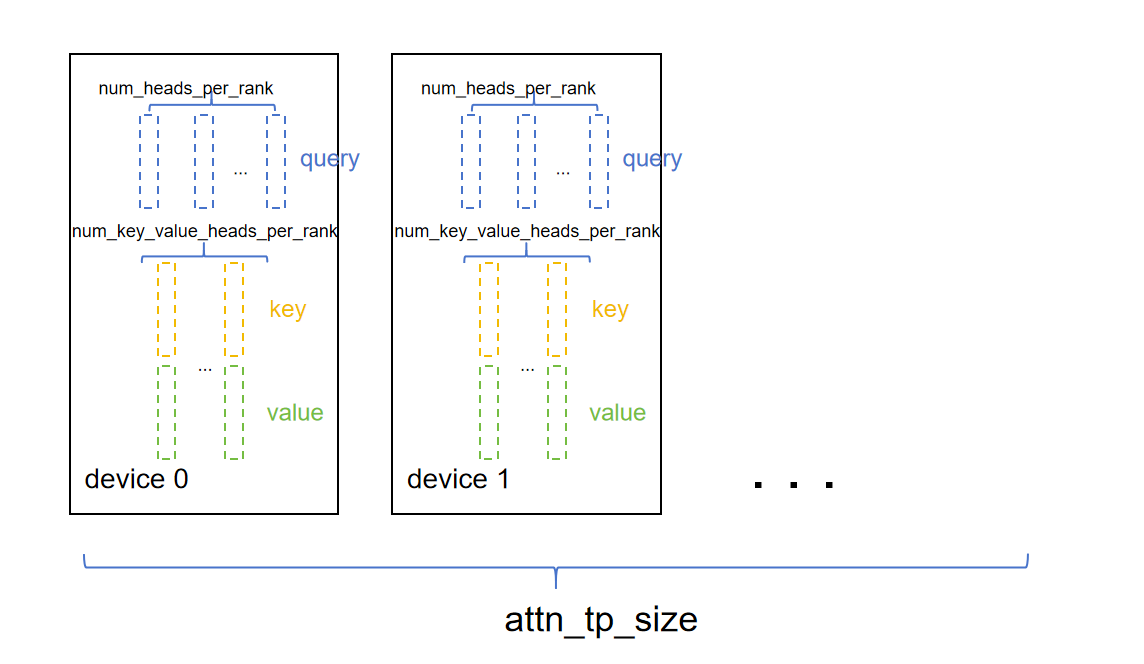
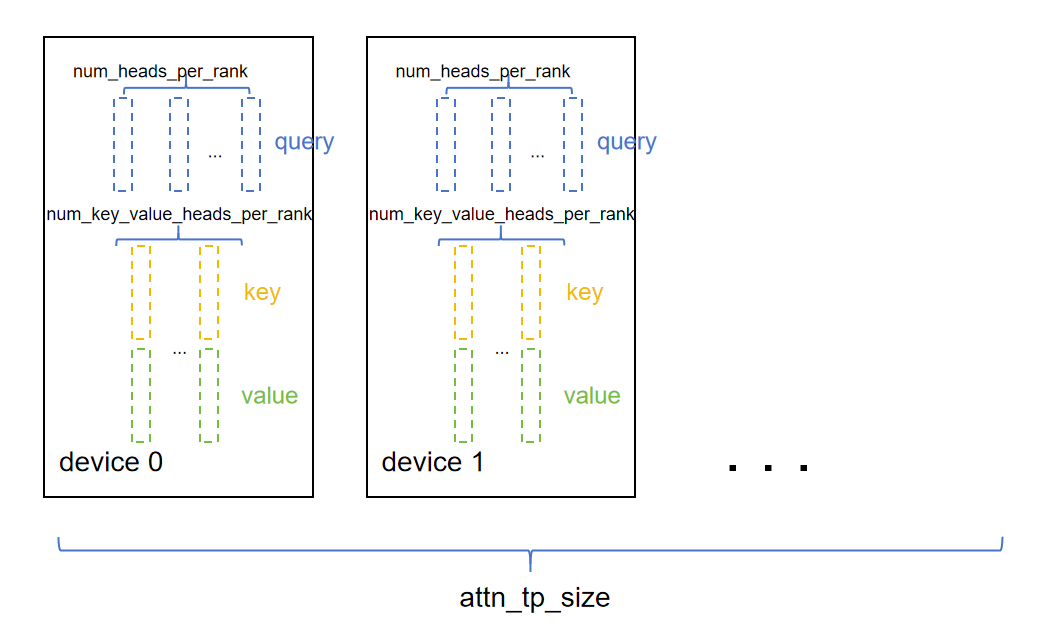
fix oss

diff --git a/models/gpt_oss/models/modeling_gpt_oss.py b/models/gpt_oss/models/modeling_gpt_oss.py
@@ -84,7 +84,7 @@ class GptOssRMSNorm(nn.Module):
 class GptOssExperts(nn.Module):
     def __init__(self, config, runner_settings):
         super().__init__()
-        self.tp_size = runner_settings.get("parallel_config").get("tp_size", 1)
+        self.tp_size = runner_settings.get("parallel_config").get("moe_tp_size", 1)
         self.intermediate_size = config.intermediate_size
         self.num_experts = config.num_local_experts
         self.hidden_size = config.hidden_size
@@ -309,7 +309,7 @@ class GptOssAttention(nn.Module):
         super().__init__()
         self.config = config
         self.layer_idx = layer_idx
-        self.tp_size = runner_settings.get("parallel_config").get("tp_size", 1)
+        self.tp_size = runner_settings.get("parallel_config").get("attn_tp_size", 1)
         if self.tp_size > 1:
             self.commute_type = "all_reduce"
         else:
@@ -557,8 +557,8 @@ class GptOssForCausalLM(GptOssPreTrainedModel, GenerationMixin):
         self.runner_settings = runner_settings
         self.model = GptOssModel(config, runner_settings, prefix)
         self.vocab_size = config.vocab_size
-        self.lm_head_tp_size = runner_settings.get("parallel_config").get("tp_size", 1)
-        self.attn_tp_size = runner_settings.get("parallel_config").get("tp_size", 1)
+        self.lm_head_tp_size = runner_settings.get("parallel_config").get("lmhead_tp_size", 1)
+        self.attn_tp_size = runner_settings.get("parallel_config").get("attn_tp_size", 1)
         self.lm_head = ColumnParallelLinear(
             input_size=config.hidden_size,
             output_size=self.vocab_size,
@@ -651,8 +651,8 @@ class GptOssForCausalLM(GptOssPreTrainedModel, GenerationMixin):
             ("merged_qkv_proj", "v_proj", "v"),
         ]
 
-        tp_rank = dist.get_rank() if self.lm_head_tp_size > 1 else 0
-        tp_size = self.lm_head_tp_size
+        tp_rank = dist.get_rank() if self.attn_tp_size > 1 else 0
+        tp_size = self.attn_tp_size
 
         # Attention heads per rank
         heads_per_rank = self.config.num_attention_heads // tp_size

diff --git a/models/gpt_oss/runner_gpt_oss.py b/models/gpt_oss/runner_gpt_oss.py
@@ -147,10 +147,14 @@ class GptOssRunner(ModelRunner):
     
     @override
     def check_model_cfg(self):
-        tp_size = self.runner_settings.get("parallel_config").get("tp_size", 1)
-        if self.hf_config.num_key_value_heads % tp_size != 0:
-            raise ValueError(f"num_key_value_heads={self.hf_config.num_key_value_heads} is not divisible by {tp_size=}")
-        if self.hf_config.intermediate_size % tp_size != 0:
-            raise ValueError(f"intermediate_size={self.hf_config.intermediate_size} is not divisible by {tp_size=}")
-        if self.hf_config.num_attention_heads % tp_size != 0:
-            raise ValueError(f"num_attention_heads={self.hf_config.num_attention_heads} is not divisible by {tp_size=}")
+        attn_tp_size = self.runner_settings.get("parallel_config").get("attn_tp_size", 1)
+        moe_tp_size = self.runner_settings.get("parallel_config").get("moe_tp_size", 1)
+        lm_head_tp_size = self.runner_settings.get("parallel_config").get("lmhead_tp_size", 1)
+        if self.hf_config.num_key_value_heads % attn_tp_size != 0:
+            raise ValueError(f"num_key_value_heads={self.hf_config.num_key_value_heads} is not divisible by {attn_tp_size=}")
+        if self.hf_config.intermediate_size % moe_tp_size != 0:
+            raise ValueError(f"intermediate_size={self.hf_config.intermediate_size} is not divisible by {moe_tp_size=}")
+        if self.hf_config.num_attention_heads % attn_tp_size != 0:
+            raise ValueError(f"num_attention_heads={self.hf_config.num_attention_heads} is not divisible by {attn_tp_size=}")
+        if self.hf_config.vocab_size % lm_head_tp_size !=0:
+            raise ValueError(f"vocab_size={self.hf_config.vocab_size} is not divisible by {lm_head_tp_size=}")

diff --git a/models/gpt_oss/models/model_setting.py b/models/gpt_oss/models/model_setting.py
@@ -1,10 +1,10 @@
 # coding=utf-8
-# Copyright (c) Huawei Technologies Co., Ltd. 2025. All rights reserved.
+# This program is free software, you can redistribute it and/or modify it.
+# Copyright (c) 2025 Huawei Technologies Co., Ltd.
 # This file is a part of the CANN Open Software.
 # Licensed under CANN Open Software License Agreement Version 2.0 (the "License").
 # Please refer to the License for details. You may not use this file except in compliance with the License.
-# THIS SOFTWARE IS PROVIDED ON AN "AS IS" BASIS, WITHOUT WARRANTIES OF ANY KIND, EITHER EXPRESS OR IMPLIED,
-# INCLUDING BUT NOT LIMITED TO NON-INFRINGEMENT, MERCHANTABILITY, OR FITNESS FOR A PARTICULAR PURPOSE.
+# THIS SOFTWARE IS PROVIDED ON AN "AS IS" BASIS, WITHOUT WARRANTIES OF ANY KIND, EITHER EXPRESS OR IMPLIED, INCLUDING BUT NOT LIMITED TO NON-INFRINGEMENT, MERCHANTABILITY, OR FITNESS FOR A PARTICULAR PURPOSE.
 # See LICENSE in the root of the software repository for the full text of the License.
 
 from executor.utils import update_settings

diff --git a/executor/utils/data_utils.py b/executor/utils/data_utils.py
@@ -68,8 +68,7 @@ def get_prompts_for_cur_rank(preset_prompts, global_bs, batch_size_per_rank, glo
 
 def generate_prompt(runner_settings):
     batch_size = runner_settings.get("data_config").get("batch_size", 1)
-    tp_size = runner_settings.get("parallel_config").get("tp_size", 1)
-    attn_tp_size = runner_settings.get("parallel_config").get("attn_tp_size", tp_size)
+    attn_tp_size = runner_settings.get("parallel_config").get("attn_tp_size", 1)
     cp_size = runner_settings.get("parallel_config").get("cp_size", 1)
     global_rank = int(os.getenv("RANK_ID", 0))
     global_dp_rank = global_rank // cp_size // attn_tp_size

diff --git a/docs/models/gpt_oss/gpt_oss_optimization.md b/docs/models/gpt_oss/gpt_oss_optimization.md
@@ -8,7 +8,9 @@
 在对QKV头切分时，attention的多头计算机制可以方便进行张量切分，每个头先独立计算，再将结果concat起来。假设模型的attention层需要对`num_heads`个query按照切分数量`tp_size`进行切分，要求`num_heads`必须能被`tp_size`整除，每张卡放置query头个数为`num_heads_per_rank = num_heads // tp_size`；key和value头数相等，且可能小于等于query头个数（在MQA和GQA的场景下会小于）。为了确保每张卡至少放置一个key和value头，每张卡放置的key或value头数计算方法为
 `num_key_value_heads_per_rank = max(num_key_value_heads // tp_size, 1)`。QKV头在卡上排布情况如下图所示。
 
-![attention_tp](./figures/attention_tp.png)
+   <p align="center">
+     <img src="./figures/attention_tp.png" width="70%" alt="attention tp process]">
+   </p>
 
 针对`q_proj`、`k_proj`和`v_proj`三个线性层，可以进一步合并为一个线性层`merged_qkv_proj`，即在推理中将三个矩阵乘替换为一个矩阵乘，可以最大化使用NPU的计算能力提升性能。随后将结果切分得到Q、K、V，并进行attention计算，最后通过`o_proj`层输出。
 
@@ -41,4 +43,4 @@ export HCCL_OP_EXPANSION_MODE=AIV
 ```
 
 ## 附录
-[环境部署以及样例执行](../models/gpt_oss/README.md)
+[环境部署以及样例执行](../../../models/gpt_oss/README.md)

diff --git a/docs/common/model_runner_guide.md b/docs/common/model_runner_guide.md
@@ -114,7 +114,9 @@ class GptOssRunner(ModelRunner): # 定义GptOssRunner类，继承自ModelRunner
 
    `model_generate`方法是模型推理的核心，如下图所示，`model_generate`负责处理输入prompt，准备输入，执行推理循环，直到满足终止条件。具体实现细节可参考[gpt_oss](../models/gpt_oss/runner_gpt_oss.py)中的`model_generate`方法。
 
-   <img src=./figures/model_generate.png width=250></img>
+   <p align="center">
+     <img src="./figures/model_generate.png" width="30%" alt="model_generate process]">
+   </p>
 
    - 处理输入提示词：将tokenizer输入最大长度设置为input_max_len，超过这个长度会做截断处理，小于这个长度会做填充处理，使用tokenizer将输入prompt变成token ID 。
    - 执行推理循环：在循环中调用`get_jump_prepare`方法判断是否终止推理，调用`model_input_prepare`方法准备模型输入，执行模型推理`model_inference`方法，获取的输出结果调用`model_output_process`方法进行处理。
